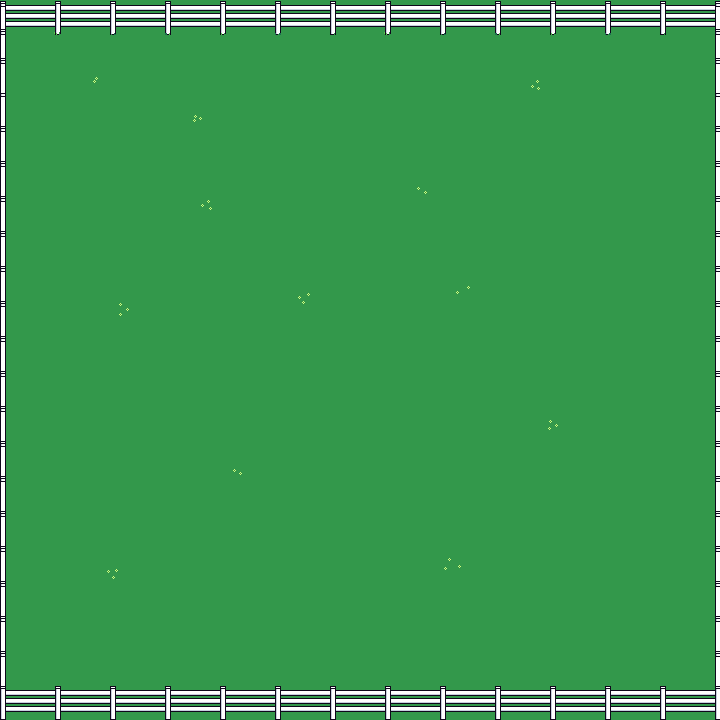
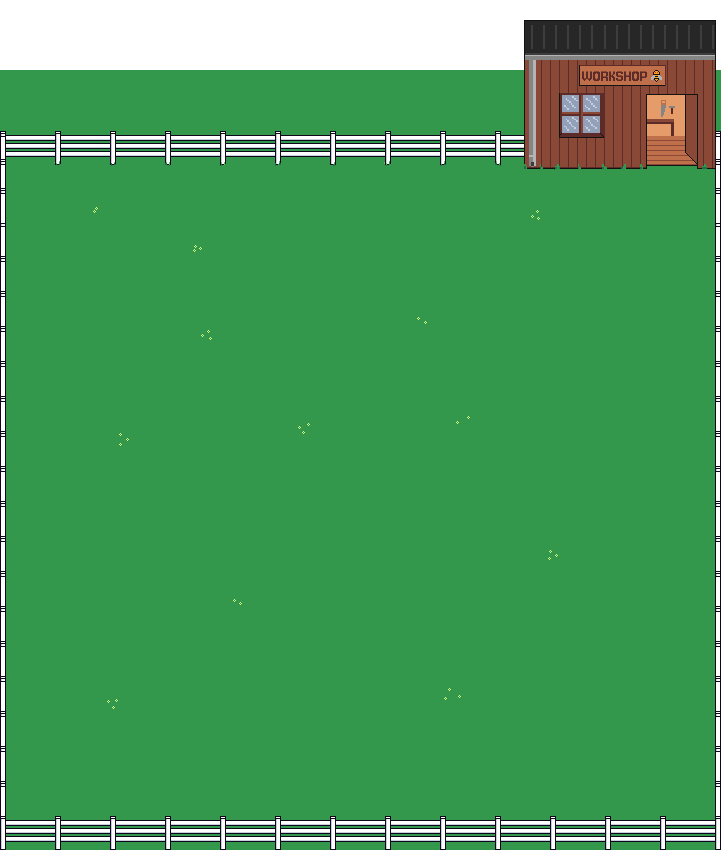
Added shop, added collision detection in garden

Changed region(s): [[0.0, 0.0, 1.0, 1.0]]

diff --git a/src/raylib_game.c b/src/raylib_game.c
@@ -18,7 +18,7 @@
 #include <stdio.h>                          // Required for: printf()
 #include <stdlib.h>                         // Required for: 
 #include <string.h>                         // Required for:
-#include <math.h>                           // Required for: sqrt, to calculate euclidean distance
+#include <math.h>                           // Required for: sqrt(), powf()
 
 //----------------------------------------------------------------------------------
 // Defines and Macros
@@ -47,7 +47,8 @@ typedef enum {
 enum CurrentScene {
     MENU,
     GARDEN,
-    HIVE,
+    HARVEST,
+    SHOP,
 };
 
 typedef enum {
@@ -72,6 +73,7 @@ struct GameState {
     Vector2 playerPosition;
     KeeperDirection playerDirection;
     bool playerMoving;
+    bool playerNearShop;
 } GameState;
 
 typedef struct Animation {
@@ -82,22 +84,30 @@ typedef struct Animation {
     Texture2D texture;
 } Animation;
 
+typedef struct Hive {
+    Vector2 position;
+} Hive;
+
+
 //----------------------------------------------------------------------------------
 // Global Variables Definition (local to this module)
 //----------------------------------------------------------------------------------
 static const int screenWidth = 720;
 static const int screenHeight = 720;
+static const Vector2 SHOP_POSITION = {660, -20};
 //static const int HONEYCOMBS_COLUMNS = 16;
 //static const int HONEYCOMBS_ROWS = 14;
 static const int MOVEMENT_SPEED = 200;
 static const Color GRASSGREEN = {51, 152, 75, 1};
 static float nextSceneChange = 0.0;
-static Animation hive;
+static Animation hiveSprite;
 static Texture2D harvestBg;
 static Texture2D gardenBg;
+static Texture2D shopBg;
 static Animation keeperSprites[7];
 static Animation keyZ;
 static Camera2D gardenCamera;
+static Hive hives[1];
 
 static RenderTexture2D target = { 0 };  // Render texture to render our game
 static int frameCounter = 0;
@@ -134,17 +144,21 @@ int main(void)
     gs->playerPosition = (Vector2){ 100,100 };
     gs->playerDirection = DOWN;
     gs->playerMoving = false;
+    gs->playerNearShop = false;
 
-    printf("%s\n", GetWorkingDirectory());
-
+    // Initialize garden camera
     gardenCamera.target = gs->playerPosition;
     gardenCamera.offset = (Vector2){screenWidth/2.0f, screenHeight/2.0f};
     gardenCamera.rotation = 0.0f;
     gardenCamera.zoom = 2.0f;
 
+    // Initialize first hive
+    hives[0].position = (Vector2){200, 200};
+
+
 
 #if defined(WIN32)     
-        hive = loadAnimation("../../../src/resources/hive.png", 3, 200);
+        hiveSprite = loadAnimation("../../../src/resources/hive.png", 3, 200);
         harvestBg = LoadTexture("../../../src/resources/harvest_bg.png");
         gardenBg = LoadTexture("../../../src/resources/garden_bg.png");
         keyZ = loadAnimation("../../../src/resources/key_z.png", 10, 200);
@@ -156,9 +170,10 @@ int main(void)
         keeperSprites[WALK_LEFT] = loadAnimation("../../../src/resources/character_walk_left.png", 4, 200);
         keeperSprites[WALK_RIGHT] = loadAnimation("../../../src/resources/character_walk_right.png", 4, 200);
 #else
-        hive = loadAnimation("resources/hive.png", 3, 200);
+        hiveSprite = loadAnimation("resources/hive.png", 3, 200);
         harvestBg = LoadTexture("resources/harvest_bg.png");
         gardenBg = LoadTexture("resources/garden_bg.png");
+        shopBg = LoadTexture("resources/shop_bg.png");
         keyZ = loadAnimation("resources/key_z.png", 10, 200);
         keeperSprites[BACK] = loadAnimation("resources/character_back.png", 2, 500);
         keeperSprites[FRONT] = loadAnimation("resources/character_front.png", 2, 500);
@@ -196,7 +211,7 @@ int main(void)
     UnloadRenderTexture(target);
 
     // TODO: Unload all loaded resources at this point
-    unloadAnimation(&hive);
+    unloadAnimation(&hiveSprite);
 
     CloseWindow();        // Close window and OpenGL context
     //--------------------------------------------------------------------------------------
@@ -258,23 +273,53 @@ static void drawAnimationFrame(Animation* animation, Vector2 position) {
     }
 }
 
+// Check hive/player collision
+bool isHiveCollision(Vector2 playerPosition) {
+    int numberOfHives = sizeof(hives) / sizeof(hives[0]);
+
+    Rectangle playerRec = {
+        playerPosition.x-15, playerPosition.y-20, 28, 50,
+    };
+
+    for (unsigned int i = 0; i < numberOfHives; i++) {
+        Rectangle hiveRec = {
+            hives[i].position.x-16, hives[i].position.y-5, 30, 10,
+        };
+
+        if (CheckCollisionRecs(playerRec, hiveRec)) {
+            return true;
+        }
+    }         
+    return false;
+}
+
 // Unload animation
 static void unloadAnimation(Animation* animation) {
     UnloadTexture(animation->texture);
 }
 
+
+
+void drawShopScene(void) {
+    // Draw background
+    DrawTexture(shopBg, 0, 0, WHITE);
+}
 // 
 //
 void drawGardenScene(void) {
     KeeperSprite keeperSprite = FRONT;
 
-    gardenCamera.target = gs->playerPosition;
-
-
     BeginMode2D(gardenCamera); 
 
     // Draw background
-    DrawTexture(gardenBg, 0, 0, WHITE);
+    DrawTexture(gardenBg, 0, -120, WHITE);
+
+    // Draw hives
+    int numberOfHives = sizeof(hives) / sizeof(hives[0]);
+    for (unsigned int i = 0; i < numberOfHives; i++) {
+        Vector2 hiveSpritePosition = {hives[i].position.x-33, hives[i].position.y-35};
+        drawAnimationFrame(&hiveSprite, hiveSpritePosition);
+    }
 
     // Draw player
     switch (gs->playerDirection) {
@@ -295,20 +340,95 @@ void drawGardenScene(void) {
     Vector2 playerSpritePosition = {gs->playerPosition.x-24, gs->playerPosition.y-28};
     drawAnimationFrame(&keeperSprites[keeperSprite], playerSpritePosition);
 
+    // Draw key if close to hive
+    // Note: We do this in a different loop, because we want it to render after player.
+    for (unsigned int i = 0; i < numberOfHives; i++) {
+        float distance = vector2Distance(gs->playerPosition, hives[i].position);
+        if (distance < 100) {
+            Vector2 keyZPos = {hives[i].position.x-8, hives[i].position.y-35};
+            drawAnimationFrame(&keyZ, keyZPos);
+        }
+    }
     
-    // Draw hive
-    Vector2 hivePosition = {200, 200};
-    Vector2 hiveSpritePosition = {hivePosition.x-33, hivePosition.y-35};
-    drawAnimationFrame(&hive, hiveSpritePosition);
-
-    // Draw key
-    float distance = vector2Distance(gs->playerPosition, hivePosition);
-    if (distance < 100) {
-        Vector2 keyZPos = {192, 165};
-        drawAnimationFrame(&keyZ, keyZPos);
+    // Draw key if close to shop
+    if (gs->playerNearShop) {
+        drawAnimationFrame(&keyZ, SHOP_POSITION);
     }
 
     EndMode2D();
+}
+
+
+void updateShopScene(void) {
+    
+}
+
+
+void updateGardenScene(void) {
+    gs->playerNearShop = false;
+
+    // Update camera
+    static Vector2 bbox = { 0.2f, 0.2f };
+
+    int width = 720;
+    int height = 720;
+
+    Vector2 bboxWorldMin = GetScreenToWorld2D((Vector2){ (1 - bbox.x)*0.5f*width, (1 - bbox.y)*0.5f*height }, gardenCamera);
+    Vector2 bboxWorldMax = GetScreenToWorld2D((Vector2){ (1 + bbox.x)*0.5f*width, (1 + bbox.y)*0.5f*height }, gardenCamera);
+    gardenCamera.offset = (Vector2){ (1 - bbox.x)*0.5f*width, (1 - bbox.y)*0.5f*height };
+
+    if (gs->playerPosition.x < bboxWorldMin.x) gardenCamera.target.x = gs->playerPosition.x;
+    if (gs->playerPosition.y < bboxWorldMin.y) gardenCamera.target.y = gs->playerPosition.y;
+    if (gs->playerPosition.x > bboxWorldMax.x) gardenCamera.target.x = bboxWorldMin.x + (gs->playerPosition.x - bboxWorldMax.x);
+    if (gs->playerPosition.y > bboxWorldMax.y) gardenCamera.target.y = bboxWorldMin.y + (gs->playerPosition.y - bboxWorldMax.y);
+
+    float distance = vector2Distance(gs->playerPosition, SHOP_POSITION);
+    if (distance < 100) {
+        gs->playerNearShop = true;
+    }
+
+    Vector2 newPlayerPosition = gs->playerPosition;
+
+    // Keybindings
+    if (IsKeyDown(KEY_DOWN) || IsKeyDown(KEY_S)) {
+        if (gs->playerPosition.y + MOVEMENT_SPEED * GetFrameTime() < 660) {
+            newPlayerPosition.y += MOVEMENT_SPEED * GetFrameTime();
+        }
+        gs->playerDirection = DOWN;
+        gs->playerMoving = true;
+    }
+    if (IsKeyDown(KEY_UP) || IsKeyDown(KEY_W)) {
+        if (gs->playerPosition.y - MOVEMENT_SPEED * GetFrameTime() > 30) {
+            newPlayerPosition.y -= MOVEMENT_SPEED * GetFrameTime();
+        }
+        gs->playerDirection = UP;
+        gs->playerMoving = true;
+    }
+    if (IsKeyDown(KEY_LEFT) || IsKeyDown(KEY_A)) {
+        if (gs->playerPosition.x - MOVEMENT_SPEED * GetFrameTime() > 15) {
+            newPlayerPosition.x -= MOVEMENT_SPEED * GetFrameTime();
+        }
+        gs->playerDirection = LEFT;
+        gs->playerMoving = true;
+    }
+    if (IsKeyDown(KEY_RIGHT) || IsKeyDown(KEY_D)) {
+        if (gs->playerPosition.x + MOVEMENT_SPEED * GetFrameTime() < 710) {
+            newPlayerPosition.x += MOVEMENT_SPEED * GetFrameTime();
+        }
+        gs->playerDirection = RIGHT;
+        gs->playerMoving = true;
+    }
+
+    // Check if new suggested position is colliding with hive
+    if (!isHiveCollision(newPlayerPosition)) {
+        gs->playerPosition = newPlayerPosition;
+    }
+
+    if (IsKeyPressed(KEY_Z)) {
+        if (gs->playerNearShop) {
+           gs->currentScene = SHOP; 
+        }
+    }
 }
 
 
@@ -330,36 +450,11 @@ if (IsKeyDown(KEY_TAB)) {
 
 
     switch (gs->currentScene) {
-        case GARDEN: {
-            if (IsKeyDown(KEY_DOWN) || IsKeyDown(KEY_S)) {
-                if (gs->playerPosition.y + MOVEMENT_SPEED * GetFrameTime() < 660) {
-                    gs->playerPosition.y += MOVEMENT_SPEED * GetFrameTime();
-                }
-                gs->playerDirection = DOWN;
-                gs->playerMoving = true;
-            }
-            if (IsKeyDown(KEY_UP) || IsKeyDown(KEY_W)) {
-                if (gs->playerPosition.y - MOVEMENT_SPEED * GetFrameTime() > 30) {
-                    gs->playerPosition.y -= MOVEMENT_SPEED * GetFrameTime();
-                }
-                gs->playerDirection = UP;
-                gs->playerMoving = true;
-            }
-            if (IsKeyDown(KEY_LEFT) || IsKeyDown(KEY_A)) {
-                if (gs->playerPosition.x - MOVEMENT_SPEED * GetFrameTime() > 15) {
-                    gs->playerPosition.x -= MOVEMENT_SPEED * GetFrameTime();
-                }
-                gs->playerDirection = LEFT;
-                gs->playerMoving = true;
-            }
-            if (IsKeyDown(KEY_RIGHT) || IsKeyDown(KEY_D)) {
-                if (gs->playerPosition.x + MOVEMENT_SPEED * GetFrameTime() < 710) {
-                    gs->playerPosition.x += MOVEMENT_SPEED * GetFrameTime();
-                }
-                gs->playerDirection = RIGHT;
-                gs->playerMoving = true;
-            }
-        }
+        case GARDEN:
+            updateGardenScene();
+            break;
+        case SHOP:
+            updateShopScene();
         default:
             // TODO
             break;
@@ -387,7 +482,11 @@ if (IsKeyDown(KEY_TAB)) {
                 drawGardenScene(); 
                 break;
             }
-            case HIVE: {
+            case SHOP: {
+                drawShopScene();               
+                break;
+            }
+            case HARVEST: {
                 DrawTexture(harvestBg, 0, 0, WHITE);
                 break;
             }